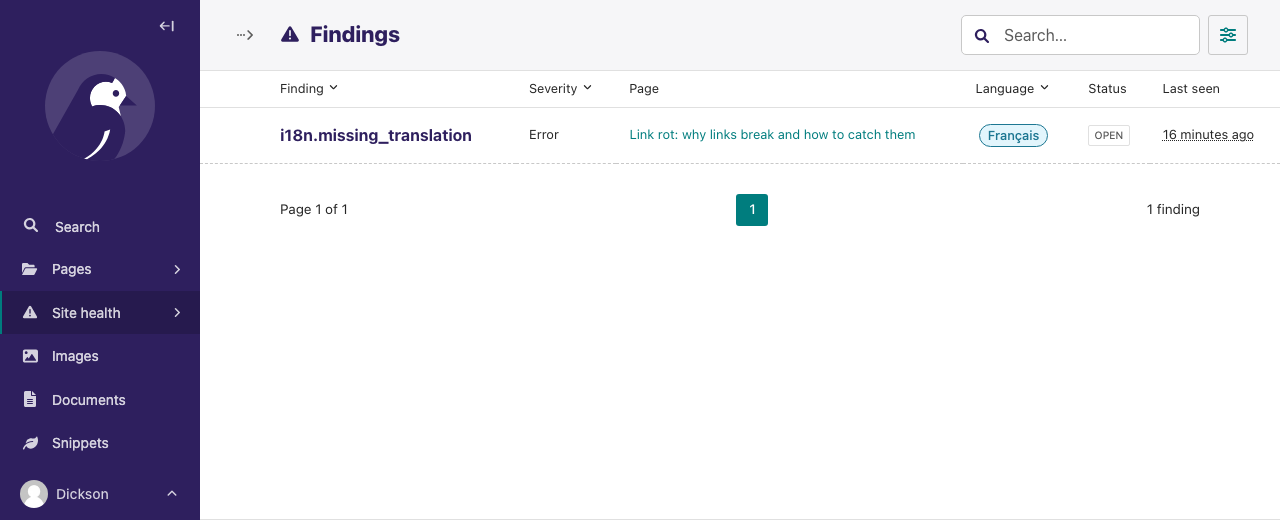
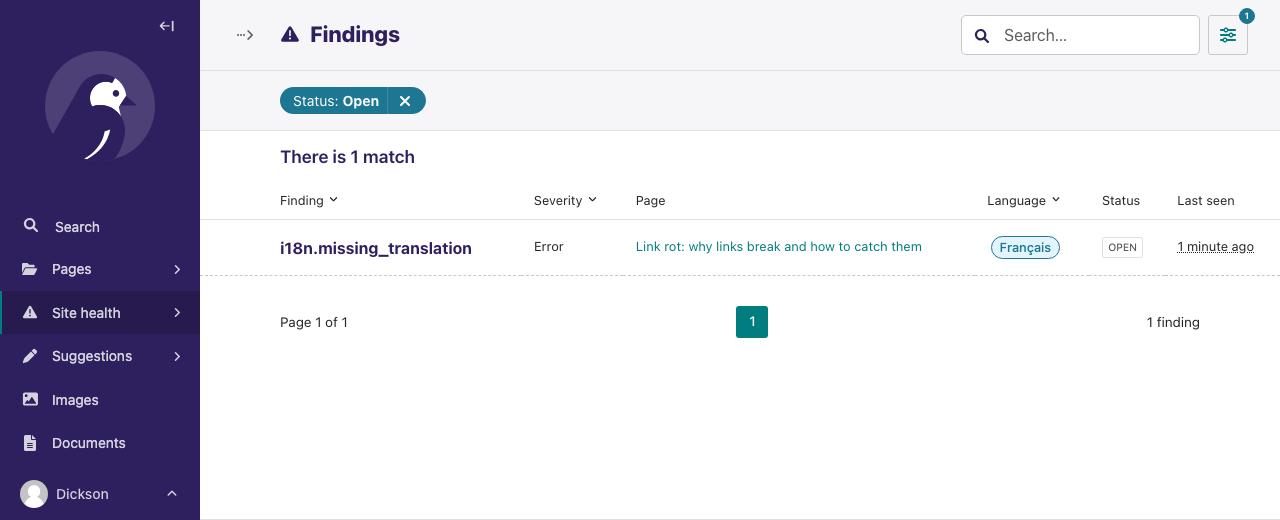
Rewrite the README in my own voice
Explains why I built Concord and the decisions behind it, alongside how
to run, test, migrate and deploy it. Screenshots now show the Concord
name and the open findings view.

diff --git a/README.md b/README.md
@@ -1,12 +1,25 @@
 # Concord
 
-I built a bilingual (English and French) Wagtail site that audits itself: it inspects every published page for missing translations, broken links and redirects, SEO gaps and accessibility problems, and lists what it finds on the home page and in the Wagtail admin. It is a test build I made to learn the Wagtail stack, not production experience.
+I built Concord, a bilingual (English and French) Wagtail site that audits itself. Every night it inspects each published page for missing translations, broken links and redirects, SEO gaps and accessibility problems, and it shows what it finds on the home page and in the Wagtail admin. Where a fix can be drafted, it drafts one for an editor to approve.
 
 ![The home page: a large headline, "This site checks its own work", beside an example brief marked up with numbered findings](docs/images/home.png)
 
-Editors work from a read-only findings report in the Wagtail admin, which links each problem straight to the page that needs fixing:
+Editors work from a findings report in the Wagtail admin that links each problem straight to the page that needs fixing:
 
 ![The Site health findings report in the Wagtail admin, listing an open missing-translation error](docs/images/admin-findings.png)
+
+## Why I built it
+
+Multilingual sites drift. A page gets updated in English and the French version quietly falls behind, a slug changes and old links break, an image goes up without alt text. Nobody notices until a reader does. I wanted a site that notices first: one that treats its own health as content, checks it continuously, and hands editors a short list of things to fix rather than a dashboard to interpret.
+
+## What it does
+
+- **Bilingual by design.** English and French with wagtail-localize, `/en/` and `/fr/` URLs, a language switcher that falls back to the home page when a translation is missing, `hreflang` alternates for real translations only, and every interface string translated.
+- **Audits itself.** `run_audits` renders every live page and runs translation, accessibility, SEO and redirect checks. Findings persist across runs and resolve themselves once fixed.
+- **Checks every link.** `check_links` checks each link on each page and reports one only after three failures in a row, so a flaky server never creates noise.
+- **Drafts fixes, never publishes them.** Suggested SEO titles, meta descriptions and translation drafts go to an editor for review, and approving one creates a draft, not a published change.
+- **Keeps old URLs working.** Renaming a page creates a permanent redirect, and the audit watches redirects for chains, loops and dead ends.
+- **Accessible.** Every public page is checked against WCAG 2.2 AA with axe-core at phone, tablet and desktop widths in both languages, on every build.
 
 ## Run it locally
 
@@ -19,42 +32,20 @@ docker compose exec web python manage.py seed_demo_content
 docker compose exec web python manage.py createsuperuser
 ```
 
-Then open http://localhost:8000 for the site and http://localhost:8000/admin/ for the admin. Run an audit and a link check with:
+Open http://localhost:8000 for the site and http://localhost:8000/admin/ for the admin. Then run an audit and a link check:
 
 ```bash
 docker compose exec web python manage.py run_audits
 docker compose exec web python manage.py check_links
 ```
 
-`seed_demo_content` creates the home page, the briefs index and three briefs, two of them translated into French. It is safe to run again. The third brief is left in English on purpose, so the audit always has a real gap to report.
-
-## What is built, and what is not yet
-
-Built:
-
-- English and French site with wagtail-localize, `/en/` and `/fr/` URLs, a language switcher, `hreflang` alternates, and French translations of every interface string
-- Brief, briefs index and landing pages with a StreamField content model; figures require alt text or an explicit "decorative" choice
-- An audit engine (`run_audits`) with a check registry, persistent findings that resolve themselves once fixed, and handling for pages that fail to render
-- Checks for missing and out-of-date translations, five accessibility rules, six SEO rules, and redirect chains, loops and broken targets
-- A link checker (`check_links`) that reports a link only after three failed checks in a row, with timeouts, retries, a per-host rate limit, a bounded worker pool and protection against requests to private addresses
-- Automatic redirects when a page's slug changes
-- An inspection log on the home page and a read-only findings report in the Wagtail admin
-- The groundwork for AI-drafted fixes: a provider interface, a review screen where editors approve or reject each suggestion, a wagtail-localize translator hook, and a log of every model call
-- Two safe migrations for `reading_time`: add the column, then backfill it
-- Playwright and axe-core checks for WCAG 2.2 AA at 360, 768 and 1280 px, in both languages
-- A multi-stage Docker image and GitHub Actions for CI, deployment and a nightly accessibility run
-
-Not built yet:
-
-- A real model behind the suggestions. The interface, review flow and translator hook are built and tested with an offline placeholder; connecting Claude needs API credit.
-- Alt-text suggestions, which need a vision model
-- A dashboard panel on the admin home page, and a nightly email digest
+`seed_demo_content` creates the home page, the briefs index and three briefs, two of them translated into French. I left the third in English on purpose, so the audit always has a real gap to show. It is safe to run again.
 
 ## How it works
 
-The project has two apps that are kept apart. `briefs` holds the content pages and `audits` holds the scan results.
+The project has three apps with clear boundaries: `briefs` holds the content, `audits` finds problems, and `suggestions` drafts fixes for people to review. Removing `suggestions` leaves the rest untouched.
 
-A check is a small function that registers itself and returns findings. Page checks receive one rendered page, with its HTML parsed once and shared by every check. Site checks, such as the redirect check, look at the whole site. `run_audits` renders every live page through Django's full request stack, so it inspects exactly what visitors get, then saves the results in bulk. A finding stays open while the problem keeps appearing and is marked resolved on the first run where it does not.
+A check is a small function that registers itself and returns findings, so adding one never touches the runner. Page checks receive a rendered page with its HTML parsed once and shared by every check; site checks, like the redirect check, look at the whole site. The runner renders pages through Django's full request stack, so it inspects exactly what visitors get, then saves everything in bulk.
 
 | Code | Severity | What it means |
 |---|---|---|
@@ -71,18 +62,25 @@ A check is a small function that registers itself and returns findings. Page che
 | `seo.missing_canonical` | Warning | No canonical link |
 | `seo.missing_hreflang` | Warning | A published translation is not declared with `hreflang`, or there is no `x-default` |
 | `seo.h1_count` | Error | The page does not have exactly one `<h1>` |
-| `link.broken` | Error | A link failed three checks in a row: 404, 410, 5xx, a timeout or a connection error. 401, 403 and 429 count as inconclusive. |
+| `link.broken` | Error | A link failed three checks in a row: 404, 410, 5xx, a timeout or a connection error |
 | `redirect.chain` | Warning | A redirect lands on another redirect |
 | `redirect.loop` | Error | Redirects that never reach a page |
 | `redirect.broken_target` | Error | A redirect with no target, to an unpublished page, or to a path that errors |
 
+## Decisions I made
+
+- **A finding is a problem, not an event.** Each finding stays open while the problem keeps appearing and resolves on the first run where it does not. A partial unique index stops the same open problem being recorded twice, and each kind of run only resolves the findings it raised, so a page audit can never close a broken link.
+- **A page that fails to render is not a clean page.** If one page errors, the run records it and moves on, and that page's findings stay open instead of being marked fixed.
+- **Three strikes for links.** A 404, 410, 5xx or network error counts as a failure; 401, 403 and 429 usually mean bot protection or rate limiting, so they count as inconclusive. The checker times out after 10 seconds, retries once, sends at most one request per second to any host from a bounded worker pool, follows at most five redirects, caps how much it downloads, and refuses requests to private, loopback and link-local addresses at every hop.
+- **People approve, the model drafts.** Suggestions are checked against the same length limits the audit uses, approving writes a draft built on the page's latest revision so unpublished edits survive, and every model call is logged with its prompt, response and requester. Suggestions stay off unless a provider is configured, so nothing is called or billed by accident.
+- **Translations publish immediately.** wagtail-localize defers publishing to the end of the transaction, by which time the queued revision is stale and resets the parent page's child count. I publish each seeded translation straight away so French pages are always routable.
+- **Schema changes expand, then contract.** `reading_time` arrives as a nullable column, then a separate, idempotent migration backfills it, so it is safe on a live table and both steps roll back cleanly.
+
 ## Suggestions
 
-Concord can draft fixes for some findings, but a person always decides. `suggest_fixes` asks the configured provider for a shorter SEO title or a missing meta description, checks the answer against the same length limits the audit uses, and stores it as a pending suggestion. In the admin, under **Suggestions**, an editor compares the current and proposed text and approves or rejects it. Approving writes the text into a new draft of the page, built on its latest draft so unpublished work is kept, and nothing is published until an editor publishes the page. Reviewing needs permission to edit that page.
+`suggest_fixes` asks the configured provider for a shorter SEO title or a missing meta description and stores each answer as a pending suggestion. Under **Suggestions** in the admin, an editor compares the current and proposed text, then approves or rejects it. Approving needs permission to edit that page and saves the text into a new draft; nothing is published until an editor publishes the page. For missing translations, the same provider sits behind wagtail-localize's machine-translation button, so drafts appear in the normal translation editor.
 
-For missing translations, the same provider sits behind wagtail-localize's machine-translation button, so drafts appear in the normal translation editor for a translator to review.
-
-Every model call is logged with its prompt, response, model and requester under **Suggestions → Model calls**. Suggestions are off unless `SUGGESTIONS_PROVIDER` is set, so nothing is called or billed by accident. Development and tests use an offline provider that returns clearly marked placeholder text.
+Every call is logged under **Suggestions → Model calls**. Development and tests use an offline provider that returns clearly marked placeholder text, and production keeps suggestions off until `SUGGESTIONS_PROVIDER` is set.
 
 ```bash
 docker compose exec web python manage.py suggest_fixes --limit 10
@@ -90,7 +88,7 @@ docker compose exec web python manage.py suggest_fixes --limit 10
 
 ## Migrations and rollback
 
-Every migration is reversible, and CI runs them forward, backward and forward again on PostgreSQL with seeded content.
+Every migration is reversible, and CI runs them forward, backward and forward again on PostgreSQL 18 with seeded content.
 
 | App | Migration | Change | Why it is safe | Rollback |
 |---|---|---|---|---|
@@ -102,8 +100,6 @@ Every migration is reversible, and CI runs them forward, backward and forward ag
 | audits | `0001`–`0004` | Runs, findings, constraint fix, labels, link checks | New tables and a partial unique index | `migrate audits zero` |
 | suggestions | `0001_initial` | Suggestions and model calls | New tables only | `migrate suggestions zero` |
 
-A rename or type change should follow expand and contract: add the new column, backfill it, move the code over, and drop the old column in a later release.
-
 ```bash
 python manage.py makemigrations --check --dry-run   # fails if a migration is missing
 python manage.py sqlmigrate briefs 0004             # read the SQL before it touches production
@@ -112,7 +108,7 @@ python manage.py migrate briefs 0003                # back
 python manage.py migrate                            # forward again
 ```
 
-The same commands run locally, in CI and in production. Take a `pg_dump` before running migrations in production.
+The same commands run locally, in CI and in production. I take a `pg_dump` before running migrations in production.
 
 ## Checks and tests
 
@@ -124,30 +120,36 @@ docker compose --profile prod up -d --build web-prod
 npx playwright test                                 # axe-core and keyboard checks
 ```
 
-The Playwright suite runs against the production image on port 8001, because Django's debug pages replace the real error templates in development. Set `BASE_URL` to run it against a deployed site.
+Tests never touch the network: every HTTP request is mocked with respx. The Playwright suite runs against the production image on port 8001, because Django's debug pages replace the real error templates in development. Set `BASE_URL` to run it against a deployed site.
 
 ## Deploying
 
-The production image serves the site with gunicorn and serves static files with WhiteNoise. It needs these environment variables:
+I deploy the Docker image on Coolify, with the database on Neon and uploaded images on Cloudflare R2. The image serves the site with gunicorn, serves static files with WhiteNoise, and reports its health at `/healthz/`, so a deploy that cannot reach its database never takes traffic.
 
 | Variable | Example |
 |---|---|
 | `SECRET_KEY` | A long random string |
-| `DATABASE_URL` | `postgres://user:password@host:5432/sitehealth` |
-| `ALLOWED_HOSTS` | `health.example.com` |
-| `CSRF_TRUSTED_ORIGINS` | `https://health.example.com` |
-| `WAGTAILADMIN_BASE_URL` | `https://health.example.com` (also sets the Wagtail site's address) |
+| `DATABASE_URL` | `postgres://user:password@host:5432/concord` |
+| `ALLOWED_HOSTS` | `concord.example.com` |
+| `CSRF_TRUSTED_ORIGINS` | `https://concord.example.com` |
+| `WAGTAILADMIN_BASE_URL` | `https://concord.example.com` (also sets the Wagtail site's address) |
 | `R2_BUCKET_NAME`, `R2_BUCKET_URL`, `R2_ACCESS_KEY_ID`, `R2_SECRET_ACCESS_KEY` | Cloudflare R2 bucket for uploaded images |
 | `R2_PUBLIC_URL` | Optional public domain for the bucket; without it, image URLs are signed |
 | `SUGGESTIONS_PROVIDER` | Optional dotted path to a suggestion provider; leave unset to keep suggestions off |
 
-On the host (I use Coolify), build from the Dockerfile and expose port 8000. Then:
+On the host:
 
+- Build from the Dockerfile and expose port 8000.
 - Run `python manage.py migrate --noinput && python manage.py seed_demo_content` before each deployment starts.
 - Schedule `python manage.py run_audits` and `python manage.py check_links` to run nightly.
-- Set `DATABASE_URL` to Neon's pooled connection string; production settings already disable the server-side cursors it does not support.
-- Set the `R2_*` variables to store uploaded images in Cloudflare R2. Without them, uploads go to the container's filesystem and are lost on redeploy.
-- Point a Cloudflare DNS record at the host, proxied, with SSL mode Full (strict).
+- Use Neon's pooled connection string; production settings already disable the server-side cursors it does not support.
+- Point a proxied Cloudflare DNS record at the host, with SSL mode Full (strict).
 
-GitHub Actions runs lint, types, migrations, tests and the accessibility suite on every push and pull request. On `main`, it calls the host's deploy webhook once both pass, if the `DEPLOY_WEBHOOK_URL` and `DEPLOY_TOKEN` secrets are set. Set the `PUBLIC_SITE_URL` variable to run the accessibility suite against the live site every night.
-# concord
+GitHub Actions runs lint, types, migrations, tests and the accessibility suite on every push and pull request. On `main`, it calls the host's deploy webhook once both pass, if the `DEPLOY_WEBHOOK_URL` and `DEPLOY_TOKEN` secrets are set. Setting the `PUBLIC_SITE_URL` variable runs the accessibility suite against the live site every night.
+
+## What's next
+
+- A Claude provider behind the suggestions interface. The review flow and translator hook are built and tested; connecting a model is a small class and one setting.
+- Alt-text suggestions from a vision model
+- Meaning-drift detection: comparing what the English and French versions actually say, not just when each was published
+- A dashboard panel on the admin home page, and a nightly email digest of new findings
